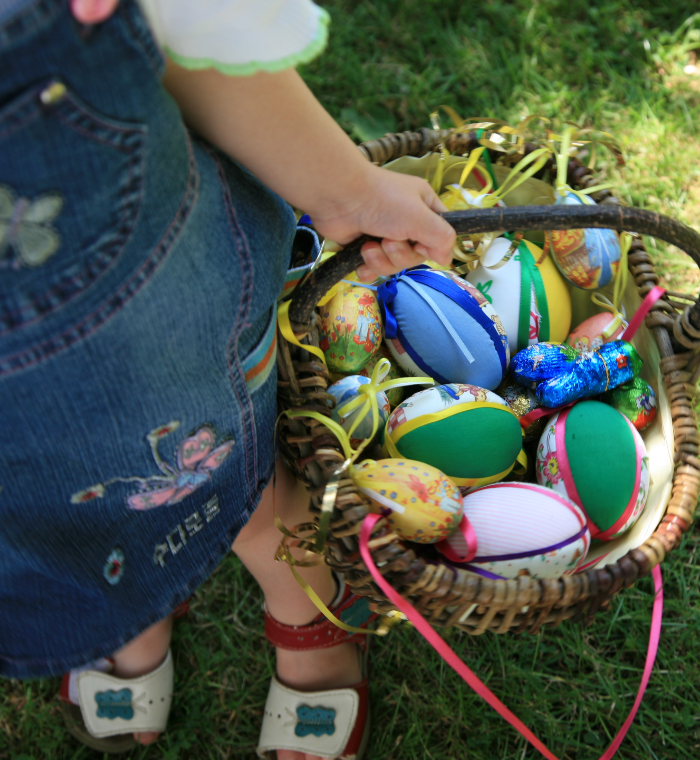
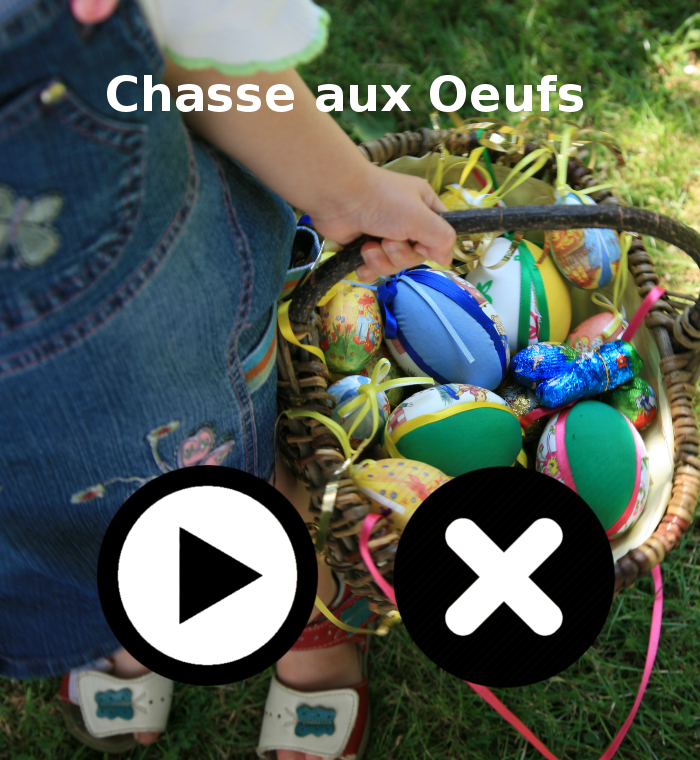
Changement image + création IngameJFrame

diff --git a/src/main/java/fr/esiea1617/glpoo/ihm/IngameJFrame.java b/src/main/java/fr/esiea1617/glpoo/ihm/IngameJFrame.java
@@ -1,0 +1,5 @@
+package fr.esiea1617.glpoo.ihm;
+
+public class IngameJFrame {
+
+}
